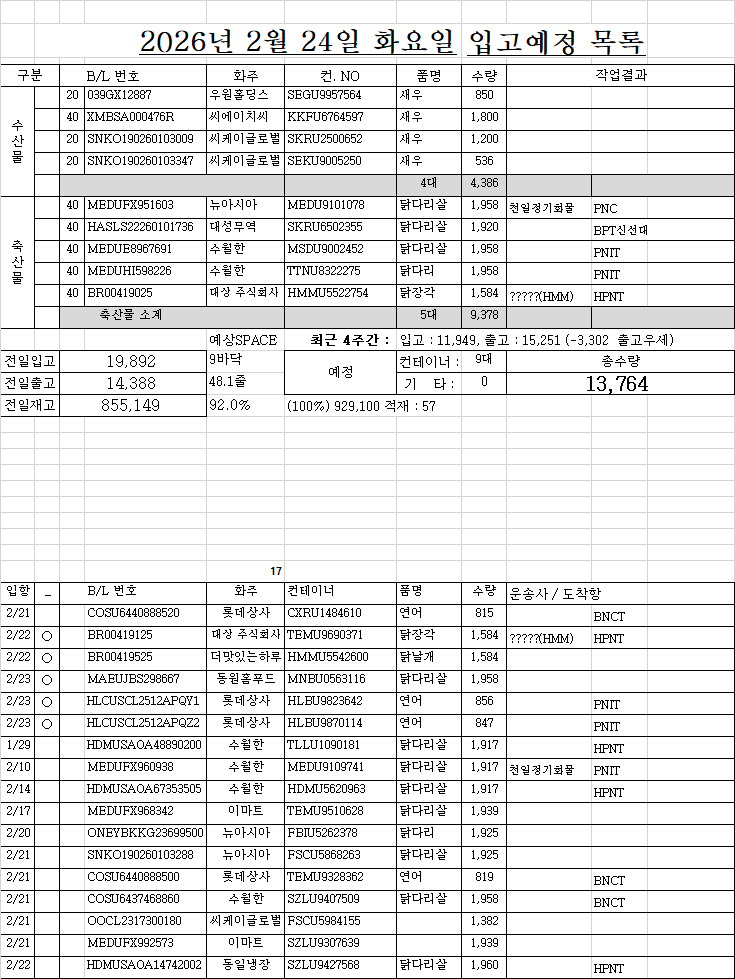
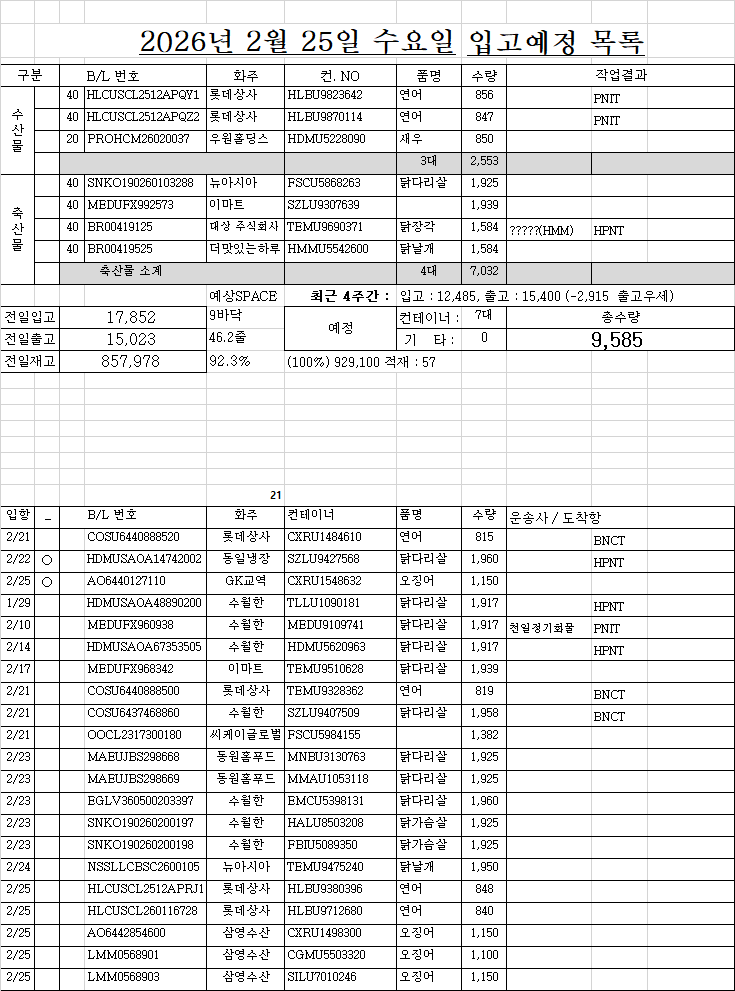
cxvxv

Changed region(s): [[0.0, 0.4903, 1.0, 1.0], [0.0, 0.0306, 1.0, 0.429]]

diff --git a/list.html b/list.html
@@ -160,53 +160,46 @@
 </div>
 <!-- ★★★★★★ 따로 빼 놔야한다. 복붙하면 첫칸 비어도 되는데, 여기서는 첫칸비우면 당겨진다. -->
 <!-- ★ 엑셀범위를 브라우저 textarea에 붙여넣으면 첫셀 비어도 제대로 되는데... HTML에 붙여놓은 자료는 처음셀이 비어있으면 당겨짐 -->
-<div class="d-none" id="원본text_리스트1부터w요약열까지">작성	면허	B/LNO.	화주	컨테이너NO.	품명	수량	반입NO.	입항일	구분	도착일	도착시간	구분	운.도VBA	02/23 월 16:18	화찰BL	화찰 선명	화물관리번호	화찰수량	화찰중량	화찰입항	리스트시트기준열	
-1	○	039GX12887	우원홀딩스	SEGU9957564	새우	850 		2/18	1			20 		(주)에스에스물류, CY : 신선대감만터미널(주) 감만CY, 컨진행 : 보세운송 신고 수리, 선사 : 만해항운 한국(주)	039GX12887	WAN HAI 289	26WHLUJS06I-1031-	850 	9,180.00 	2026.02.18	02/23 월 16:18	
-1	○	XMBSA000476R	씨에이치씨	KKFU6764597	새우	1,800 		2/23	1					(주)에스에스물류, CY : 신선대감만터미널(주) 감만CY, 컨진행 : 보세운송 신고 수리, 선사 : 양밍한국(주), 포딩 : (주)엔듀런스코리아	XMBSA000476R	YM CERTAINTY	26YMJA0023I-1064-0001	1,800 	21,000.00 	2026.02.23	조회정보	
-1	○	SNKO190260103009	씨케이글로벌	SKRU2500652	새우	1,200 		2/23	1			20 		(주)부산특수물류, CY : 신선대감만터미널(주) 신선대CY, 컨진행 : 입항적재화물목록 운항정보 정정, 선사 : 장금상선(주)	SNKO190260103009	SAWASDEE INCHEON	26SNKO0762I-6067-	1,200 	6,960.00 	2026.02.23	적재	57 
-1	○	SNKO190260103347	씨케이글로벌	SEKU9005250	새우	536 		2/23	1			20 		(주)부산특수물류, CY : 신선대감만터미널(주) 신선대CY, 컨진행 : 입항적재화물목록 운항정보 정정, 선사 : 장금상선(주)	SNKO190260103347	SAWASDEE INCHEON	26SNKO0762I-6076-	536 	1,494.20 	2026.02.23	4,617 	3줄
-1	○	MEDUFX951603	뉴아시아	MEDU9101078	닭다리살	1,958 	천일정기화물.PNC	2/10	2	2/23	16:02		천일정기화물.PNC	천일정기화물자동차(주), CY : 부산신항만(주)자유무역지역, 컨진행 : 반출완료, 선사 : 엠에스씨코리아(주)	MEDUFX951603	MSC GAYANE	26MSCU6049I-0006-	1,958 	24,523.16 	2026.02.10	6,156 	4줄
-1	○	HASLS22260101736	대성무역	SKRU6502355	닭다리살	1,920 	BPT신선대	2/18	2	2/23	15:56		BPT신선대	(주)에이치유로지스틱스, CY : 신선대감만터미널(주) 신선대CY, 컨진행 : 반출완료, 선사 : 장금상선(주)	HASLS22260101736	SHANGHAI VOYAGER	26SNKO0628I-2120-	1,920 	24,000.00 	2026.02.18	7,695 	5줄
-1	○	MEDUE8967691	수월한	MSDU9002452	닭다리살	1,958 	PNIT	2/18	2				PNIT	천일정기화물자동차(주), CY : 부산신항국제터미널(주), 컨진행 : 보세운송 신고 수리, 선사 : 엠에스씨코리아(주)	MEDUE8967691	MSC ANZU	26MSCU3054I-0012-	1,958 	24,486.60 	2026.02.18	9,234 	6줄
-1	○	MEDUHI598226	수월한	TTNU8322275	닭다리	1,958 	PNIT	2/18	2				PNIT	천일정기화물자동차(주), CY : 부산신항국제터미널(주), 컨진행 : 보세운송 신고 수리, 선사 : 엠에스씨코리아(주)	MEDUHI598226	MSC ANZU	26MSCU3054I-0024-	1,958 	24,486.78 	2026.02.18		
-1	○	BR00419025	대상 주식회사	HMMU5522754	닭장각	1,584 	?????(HMM).HPNT	2/22	2				?????(HMM).HPNT	(주)골든로지텍, CY : 에이치엠엠피에스에이신항만(주), 컨진행 : 보세운송 신고 수리, 선사 : 에이치엠엠(주), 포딩 : 주식회사　어라이즈인터내셔날	BR00419025	HMM SKY	26HDMUA067I-0004-0001	1,584 	24,650.00 	2026.02.22	출고/입고 4주간	
-2		COSU6440888520	롯데상사	CXRU1484610	연어	815 	BNCT	2/21	1				BNCT			COSCO HARMONY					1일 7/5	5일줄
-2	○	BR00419125	대상 주식회사	TEMU9690371	닭장각	1,584 	?????(HMM).HPNT	2/22	2				?????(HMM).HPNT	(주)골든로지텍, CY : 에이치엠엠피에스에이신항만(주), 컨진행 : 반입완료, 선사 : 에이치엠엠(주), 포딩 : 주식회사　어라이즈인터내셔날	BR00419125	HMM SKY	26HDMUA067I-0010-0001	1,584 	24,600.00 	2026.02.22	15,251 	49.5
-2	○	BR00419525	더맛있는하루	HMMU5542600	닭날개	1,584 		2/22	2					(주)에이치유로지스틱스, CY : 에이치엠엠피에스에이신항만(주), 컨진행 : 반입완료, 선사 : 에이치엠엠(주), 포딩 : 주식회사　어라이즈인터내셔날	BR00419525	HMM SKY	26HDMUA067I-0006-0001	1,584 	24,650.00 	2026.02.22	11,949 	38.8
-2	○	MAEUJBS298667	동원홈푸드	MNBU0563116	닭다리살	1,958 		2/23	2					(주)한타특수운송, CY : 부산신항만(주)자유무역지역, 컨진행 : 반입완료, 선사 : 한국머스크(주)	MAEUJBS298667	REN JIAN 15	26MAEU0108I-1169-	1,958 	24,486.83 	2026.02.23	내국제외	
-2	○	HLCUSCL2512APQY1	롯데상사	HLBU9823642	연어	856 	PNIT	2/23	1				PNIT	(주)에스에스물류, CY : 부산신항국제터미널(주), 컨진행 : 입항적재화물목록 운항정보 정정, 선사 : 엠에스씨코리아(주)	HLCUSCL2512APQY1	MSC VALENTINA	26MSCU6034I-6002-	856 	24,740.10 	2026.02.23	구분	대수
-2	○	HLCUSCL2512APQZ2	롯데상사	HLBU9870114	연어	847 	PNIT	2/23	1				PNIT	(주)에스에스물류, CY : 부산신항국제터미널(주), 컨진행 : 입항적재화물목록 운항정보 정정, 선사 : 엠에스씨코리아(주)	HLCUSCL2512APQZ2	MSC VALENTINA	26MSCU6034I-6003-	847 	24,734.60 	2026.02.23	수산	17
-		HDMUSAOA48890200	수월한	TLLU1090181	닭다리살	1,917 	HPNT	1/29	2				HPNT	면허?, CY : 에이치엠엠피에스에이신항만(주), 컨진행 : 반입완료, 선사 : 에이치엠엠(주)	HDMUSAOA48890200	SEASPAN BEAUTY	26HDMUA012I-0626-	1,917 	23,962.50 	2026.01.29	축산	38
-		MEDUFX960938	수월한	MEDU9109741	닭다리살	1,917 	천일정기화물.PNIT	2/10	2				천일정기화물.PNIT			MSC BREMERHAVEN V					합계	55
-		HDMUSAOA67353505	수월한	HDMU5620963	닭다리살	1,917 	HPNT	2/14	2				HPNT	면허?, CY : 에이치엠엠피에스에이신항만(주), 컨진행 : 반입완료, 선사 : 에이치엠엠(주)	HDMUSAOA67353505	HMM IVY	26HDMUA008I-0068-	1,917 	23,962.50 	2026.02.14		
-		MEDUFX968342	이마트	TEMU9510628	닭다리살	1,939 		2/17	2							MSC SIYA B					화주별 요약	
-		ONEYBKKG23699500	뉴아시아	FBIU5262378	닭다리	1,925 		2/20	2					면허?, CY : 신감만 한국허치슨(주) 컨테이너 보세창고, 컨진행 : 반입완료, 선사 : 오션네트워크익스프레스코리아(주)	ONEYBKKG23699500	MARIA C	26ONEY0201I-5034-	1,925 	24,640.00 	2026.02.20	화주	대수
-		SNKO190260103288	뉴아시아	FSCU5868263	닭다리살	1,925 		2/21	2					면허?, CY : 신감만 한국허치슨(주) 컨테이너 보세창고, 컨진행 : 반입완료, 선사 : 장금상선(주)	SNKO190260103288	SAWASDEE RIGEL	26SNKO0760I-6073-	1,925 	24,640.00 	2026.02.21	수월한	10
-		COSU6440888500	롯데상사	TEMU9328362	연어	819 	BNCT	2/21	1				BNCT			COSCO HARMONY					뉴아시아	5
-		COSU6437468860	수월한	SZLU9407509	닭다리살	1,958 	BNCT	2/21	2				BNCT	면허?, CY : (주)비엔씨티(CY), 컨진행 : 반입완료, 선사 : 코스코쉬핑라인스 한국 주식회사	COSU6437468860	COSCO HARMONY	26COSU0011I-3041-	1,958 	24,492.63 	2026.02.21	아스트로스	5
-		OOCL2317300180	씨케이글로벌	FSCU5984155		1,382 		2/21	1							CMA CGM PRIDE					씨케이글로벌	4
-		MEDUFX992573	이마트	SZLU9307639		1,939 		2/21	2					면허?, CY : 부산컨테이너터미널(주), 컨진행 : 반입완료, 선사 : 엠에스씨코리아(주)	MEDUFX992573	MSC FAIRFIELD	26MSCU4069I-0357-	1,939 	24,213.43 	2026.02.21	롯데상사	4
-		HDMUSAOA14742002	동일냉장	SZLU9427568	닭다리살	1,960 	HPNT	2/22	2				HPNT	면허?, CY : 에이치엠엠피에스에이신항만(주), 컨진행 : 입항적재화물목록 운항정보 정정, 선사 : 에이치엠엠(주)	HDMUSAOA14742002	HMM SKY	26HDMUA067I-0130-	1,960 	24,500.00 	2026.02.22	이마트	4
-		MAEUJBS298668	동원홈푸드	MNBU3130763	닭다리살	1,925 		2/23	2					면허?, CY : 부산신항만(주)자유무역지역, 컨진행 : 입항적재화물목록 운항정보 정정, 선사 : 한국머스크(주)	MAEUJBS298668	REN JIAN 15	26MAEU0108I-1170-	1,925 	24,074.00 	2026.02.23	삼영수산	4
-		MAEUJBS298669	동원홈푸드	MMAU1053118	닭다리살	1,925 		2/23	2					면허?, CY : 부산신항만(주)자유무역지역, 컨진행 : 반입완료, 선사 : 한국머스크(주)	MAEUJBS298669	REN JIAN 15	26MAEU0108I-1171-	1,925 	24,074.00 	2026.02.23	대성무역	3
-		EGLV360500203397	수월한	EMCU5398131	닭다리살	1,960 		2/23	2							EVER VAST					대상 주식회사	3
-		SNKO190260200197	수월한	HALU8503208	닭가슴살	1,925 		2/23	2					면허?, CY : 신선대감만터미널(주) 신선대CY, 컨진행 : 입항적재화물목록 운항정보 정정, 선사 : 장금상선(주)	SNKO190260200197	SAWASDEE INCHEON	26SNKO0762I-6087-	1,925 	24,640.00 	2026.02.23	동원홈푸드	3
-		SNKO190260200198	수월한	FBIU5089350	닭가슴살	1,925 		2/23	2					면허?, CY : 신선대감만터미널(주) 신선대CY, 컨진행 : 입항적재화물목록 운항정보 정정, 선사 : 장금상선(주)	SNKO190260200198	SAWASDEE INCHEON	26SNKO0762I-6088-	1,925 	24,640.00 	2026.02.23	우원홀딩스	2
-		PROHCM26020037	우원홀딩스	HDMU5228090	새우	850 		2/23	1			20 		면허?, CY : 동일냉장(주), 컨진행 : 입항적재화물목록 운항정보 정정, 선사 : 오션네트워크익스프레스코리아(주), 포딩 : 이산글로벌로지스틱주식회사	PROHCM26020037	NYK RUMINA	26ONEY0229I-7004-0001	850 	9,180.00 	2026.02.23	참트레이딩	2
-		NSSLLCBSC2600105	뉴아시아	TEMU9475240	닭날개	1,950 		2/24	2												씨에이치씨	1
-		AO6440127110	GK교역	CXRU1548632	오징어	1,150 		2/25	1												더맛있는하루	1
-		AO6442854600	삼영수산	CXRU1498300	오징어	1,150 		2/25	1												동일냉장	1
-		LMM0568901	삼영수산	CGMU5503320	오징어	1,100 		2/25	1							CMA CGM TAGE					GK교역	1
-		LMM0568903	삼영수산	SILU7010246	오징어	1,150 		2/25	1							CMA CGM TAGE					현대그린	1
-		KMTCBKK3817470	뉴아시아	FBIU5571000	닭날개	1,950 		2/27	2												아이씨코퍼	1
-		HLCUIT1251213904	대상 주식회사	SZLU6013538	닭다리살	1,986 		3/2	2							MAERSK SANA					합계	55
-		HDMUSAOA89586900	수월한	HDMU5616095	닭다리살	1,958 		3/2	2													
-		HDMUSAOA37377700	이마트	TEMU9679794				3/2	2							BANGKOK BRIDGE						
-		HDMUSAOA58285600	이마트	TEMU9685190	닭다리			3/2	2							BANGKOK BRIDGE						
-		MEDUHI618073	아스트로스	TRLU1648274	닭발	1,500 		3/3	2													
-		ONEYSAOF71610904	대성무역	TTNU8791009	닭장각	1,568 		3/4	2							BANGKOK BRIDGE						
-		ONEYSAOF71613504	대성무역	FSCU5810702	닭다리살	1,960 		3/4	2													
-		COSU6441499120	삼영수산	CXRU1508429	오징어	1,063 		3/7	1							XIN DA LIAN						
+<div class="d-none" id="원본text_리스트1부터w요약열까지">작성	면허	B/LNO.	화주	컨테이너NO.	품명	수량	반입NO.	입항일	구분	도착일	도착시간	구분	운.도VBA	02/25 수 08:04	화찰BL	화찰 선명	화물관리번호	화찰수량	화찰중량	화찰입항	리스트시트기준열	
+1	○	HLCUSCL2512APQY1	롯데상사	HLBU9823642	연어	856 	PNIT	2/23	1				PNIT	(주)에스에스물류, CY : 부산신항국제터미널(주), 컨진행 : 반입완료, 선사 : 엠에스씨코리아(주)	HLCUSCL2512APQY1	MSC VALENTINA	26MSCU6034I-6002-	856 	24,740.10 	2026.02.23	02/25 수 08:04	
+1	○	HLCUSCL2512APQZ2	롯데상사	HLBU9870114	연어	847 	PNIT	2/23	1				PNIT	(주)에스에스물류, CY : 부산신항국제터미널(주), 컨진행 : 반입완료, 선사 : 엠에스씨코리아(주)	HLCUSCL2512APQZ2	MSC VALENTINA	26MSCU6034I-6003-	847 	24,734.60 	2026.02.23	조회정보	
+1	○	PROHCM26020037	우원홀딩스	HDMU5228090	새우	850 		2/23	1			20 		면허?, CY : 동일냉장(주), 컨진행 : 입항적재화물목록 운항정보 정정, 선사 : 오션네트워크익스프레스코리아(주), 포딩 : 이산글로벌로지스틱주식회사	PROHCM26020037	NYK RUMINA	26ONEY0229I-7004-0001	850 	9,180.00 	2026.02.23	적재	57 
+1	○	SNKO190260103288	뉴아시아	FSCU5868263	닭다리살	1,925 		2/21	2					에이스로지스틱(주), CY : 신감만 한국허치슨(주) 컨테이너 보세창고, 컨진행 : 보세운송 신고 수리, 선사 : 장금상선(주)	SNKO190260103288	SAWASDEE RIGEL	26SNKO0760I-6073-	1,925 	24,640.00 	2026.02.21	4,617 	3줄
+1	○	MEDUFX992573	이마트	SZLU9307639		1,939 		2/21	2					면허?, CY : 부산컨테이너터미널(주), 컨진행 : 반입완료, 선사 : 엠에스씨코리아(주)	MEDUFX992573	MSC FAIRFIELD	26MSCU4069I-0357-	1,939 	24,213.43 	2026.02.21	6,156 	4줄
+1	○	BR00419125	대상 주식회사	TEMU9690371	닭장각	1,584 	?????(HMM).HPNT	2/22	2				?????(HMM).HPNT	(주)골든로지텍, CY : 에이치엠엠피에스에이신항만(주), 컨진행 : 반입완료, 선사 : 에이치엠엠(주), 포딩 : 주식회사　어라이즈인터내셔날	BR00419125	HMM SKY	26HDMUA067I-0010-0001	1,584 	24,600.00 	2026.02.22	7,695 	5줄
+1	○	BR00419525	더맛있는하루	HMMU5542600	닭날개	1,584 		2/22	2					(주)에이치유로지스틱스, CY : 에이치엠엠피에스에이신항만(주), 컨진행 : 반입완료, 선사 : 에이치엠엠(주), 포딩 : 주식회사　어라이즈인터내셔날	BR00419525	HMM SKY	26HDMUA067I-0006-0001	1,584 	24,650.00 	2026.02.22	9,234 	6줄
+2	○	ONEYBKKG23699500	뉴아시아	FBIU5262378	닭다리	1,925 		2/20	2					면허?, CY : 신감만 한국허치슨(주) 컨테이너 보세창고, 컨진행 : 반입완료, 선사 : 오션네트워크익스프레스코리아(주)	ONEYBKKG23699500	MARIA C	26ONEY0201I-5034-	1,925 	24,640.00 	2026.02.20		
+2		COSU6440888520	롯데상사	CXRU1484610	연어	815 	BNCT	2/21	1				BNCT			COSCO HARMONY					출고/입고 4주간	
+2	○	HDMUSAOA14742002	동일냉장	SZLU9427568	닭다리살	1,960 	HPNT	2/22	2				HPNT	면허?, CY : 에이치엠엠피에스에이신항만(주), 컨진행 : 입항적재화물목록 운항정보 정정, 선사 : 에이치엠엠(주)	HDMUSAOA14742002	HMM SKY	26HDMUA067I-0130-	1,960 	24,500.00 	2026.02.22	1일 7/5	5일줄
+2	○	AO6440127110	GK교역	CXRU1548632	오징어	1,150 		2/25	1						AO6440127110	QI YUN HE	26COHEY527I-9012-0001	1,150 	24,310.00 	2026.02.25	15,368 	49.9
+		HDMUSAOA48890200	수월한	TLLU1090181	닭다리살	1,917 	HPNT	1/29	2				HPNT	면허?, CY : 에이치엠엠피에스에이신항만(주), 컨진행 : 반입완료, 선사 : 에이치엠엠(주)	HDMUSAOA48890200	SEASPAN BEAUTY	26HDMUA012I-0626-	1,917 	23,962.50 	2026.01.29	12,280 	39.9
+		MEDUFX960938	수월한	MEDU9109741	닭다리살	1,917 	천일정기화물.PNIT	2/10	2				천일정기화물.PNIT			MSC BREMERHAVEN V					내국제외	
+		HDMUSAOA67353505	수월한	HDMU5620963	닭다리살	1,917 	HPNT	2/14	2				HPNT	면허?, CY : 에이치엠엠피에스에이신항만(주), 컨진행 : 반입완료, 선사 : 에이치엠엠(주)	HDMUSAOA67353505	HMM IVY	26HDMUA008I-0068-	1,917 	23,962.50 	2026.02.14	구분	대수
+		MEDUFX968342	이마트	TEMU9510628	닭다리살	1,939 		2/17	2							MSC SIYA B					수산	16
+		COSU6440888500	롯데상사	TEMU9328362	연어	819 	BNCT	2/21	1				BNCT			COSCO HARMONY					축산	35
+		COSU6437468860	수월한	SZLU9407509	닭다리살	1,958 	BNCT	2/21	2				BNCT	면허?, CY : (주)비엔씨티(CY), 컨진행 : 반입완료, 선사 : 코스코쉬핑라인스 한국 주식회사	COSU6437468860	COSCO HARMONY	26COSU0011I-3041-	1,958 	24,492.63 	2026.02.21	합계	51
+		OOCL2317300180	씨케이글로벌	FSCU5984155		1,382 		2/21	1							CMA CGM PRIDE						
+		MAEUJBS298668	동원홈푸드	MNBU3130763	닭다리살	1,925 		2/23	2					면허?, CY : 부산신항만(주)자유무역지역, 컨진행 : 반입완료, 선사 : 한국머스크(주)	MAEUJBS298668	REN JIAN 15	26MAEU0108I-1170-	1,925 	24,074.00 	2026.02.23	화주별 요약	
+		MAEUJBS298669	동원홈푸드	MMAU1053118	닭다리살	1,925 		2/23	2					면허?, CY : 부산신항만(주)자유무역지역, 컨진행 : 반입완료, 선사 : 한국머스크(주)	MAEUJBS298669	REN JIAN 15	26MAEU0108I-1171-	1,925 	24,074.00 	2026.02.23	화주	대수
+		EGLV360500203397	수월한	EMCU5398131	닭다리살	1,960 		2/23	2							EVER VAST					수월한	10
+		SNKO190260200197	수월한	HALU8503208	닭가슴살	1,925 		2/23	2					면허?, CY : 신선대감만터미널(주) 신선대CY, 컨진행 : 입항적재화물목록 운항정보 정정, 선사 : 장금상선(주)	SNKO190260200197	SAWASDEE INCHEON	26SNKO0762I-6087-	1,925 	24,640.00 	2026.02.23	롯데상사	6
+		SNKO190260200198	수월한	FBIU5089350	닭가슴살	1,925 		2/23	2					면허?, CY : 신선대감만터미널(주) 신선대CY, 컨진행 : 입항적재화물목록 운항정보 정정, 선사 : 장금상선(주)	SNKO190260200198	SAWASDEE INCHEON	26SNKO0762I-6088-	1,925 	24,640.00 	2026.02.23	아스트로스	5
+		NSSLLCBSC2600105	뉴아시아	TEMU9475240	닭날개	1,950 		2/24	2												뉴아시아	4
+		HLCUSCL2512APRJ1	롯데상사	HLBU9380396	연어	848 		2/25	1												이마트	4
+		HLCUSCL260116728	롯데상사	HLBU9712680	연어	840 		2/25	1												삼영수산	4
+		AO6442854600	삼영수산	CXRU1498300	오징어	1,150 		2/25	1												참트레이딩	3
+		LMM0568901	삼영수산	CGMU5503320	오징어	1,100 		2/25	1							CMA CGM TAGE					대상 주식회사	2
+		LMM0568903	삼영수산	SILU7010246	오징어	1,150 		2/25	1							CMA CGM TAGE					씨케이글로벌	2
+		KMTCBKK3817470	뉴아시아	FBIU5571000	닭날개	1,950 		2/27	2												동원홈푸드	2
+		MAEUJBS298967	수월한	MNBU0672626	닭다리살	1,958 		2/28	2												대성무역	2
+		HLCUIT1251213904	대상 주식회사	SZLU6013538	닭다리살	1,986 		3/2	2							MAERSK SANA					우원홀딩스	1
+		HDMUSAOA89586900	수월한	HDMU5616095	닭다리살	1,958 		3/2	2												더맛있는하루	1
+		HDMUSAOA37377700	이마트	TEMU9679794				3/2	2							BANGKOK BRIDGE					동일냉장	1
+		HDMUSAOA58285600	이마트	TEMU9685190	닭다리			3/2	2							BANGKOK BRIDGE					GK교역	1
+		MEDUHI618073	아스트로스	TRLU1648274	닭발	1,500 		3/3	2												현대그린	1
+		ONEYSAOF71610904	대성무역	TTNU8791009	닭장각	1,568 		3/4	2							BANGKOK BRIDGE					아이씨코퍼	1
+		ONEYSAOF71613504	대성무역	FSCU5810702	닭다리살	1,960 		3/4	2												미래(경기도)	1
+		COSU6441499120	삼영수산	CXRU1508429	오징어	1,063 		3/7	1							XIN DA LIAN					합계	51
 		HLCUPN4251156750	현대그린	HLBU9956440	닭다리살	1,950 		3/7	2													
 		MEDUHI654086	아스트로스	MEDU9120782	닭발	1,500 		3/13	2													
 		ONEYSAOF71250900	참트레이딩	FSCU5956169	닭장각	1,533 		3/14	2							HMM BLESSING						
@@ -215,6 +208,9 @@
 		MEDUHI659176	아스트로스	MEDU9892404	닭발	1,500 		3/31	2													
 		MEDUHI665900	아스트로스	TEMU9478418	닭발	1,500 		3/31	2													
 		MEDUHI669225	아스트로스	TRIU8211928	닭발	1,500 		3/31	2													
+		039GX15773	미래(경기도)	FSCU5698676	새우	2,152 			1													
+		HLCUSS5251100378	참트레이딩	HLBU9968559	닭다리살	1,916 			2													
+		MEDUHI586650	수월한	GESU9454077	닭다리살	1,957 		3/1TS	2													
 		SITRRIPU040355	씨케이글로벌	CAIU5186862	새우	1,550 			1			20 										
 </div>
 <div class="d-none" id="원본text_입항관리도크부터도착항우측까지">도크	화주	컨테이너	작업순서	상세내용 참조		운송사	물품		06/05 목 16:15	B/L	도착항	상세내용
